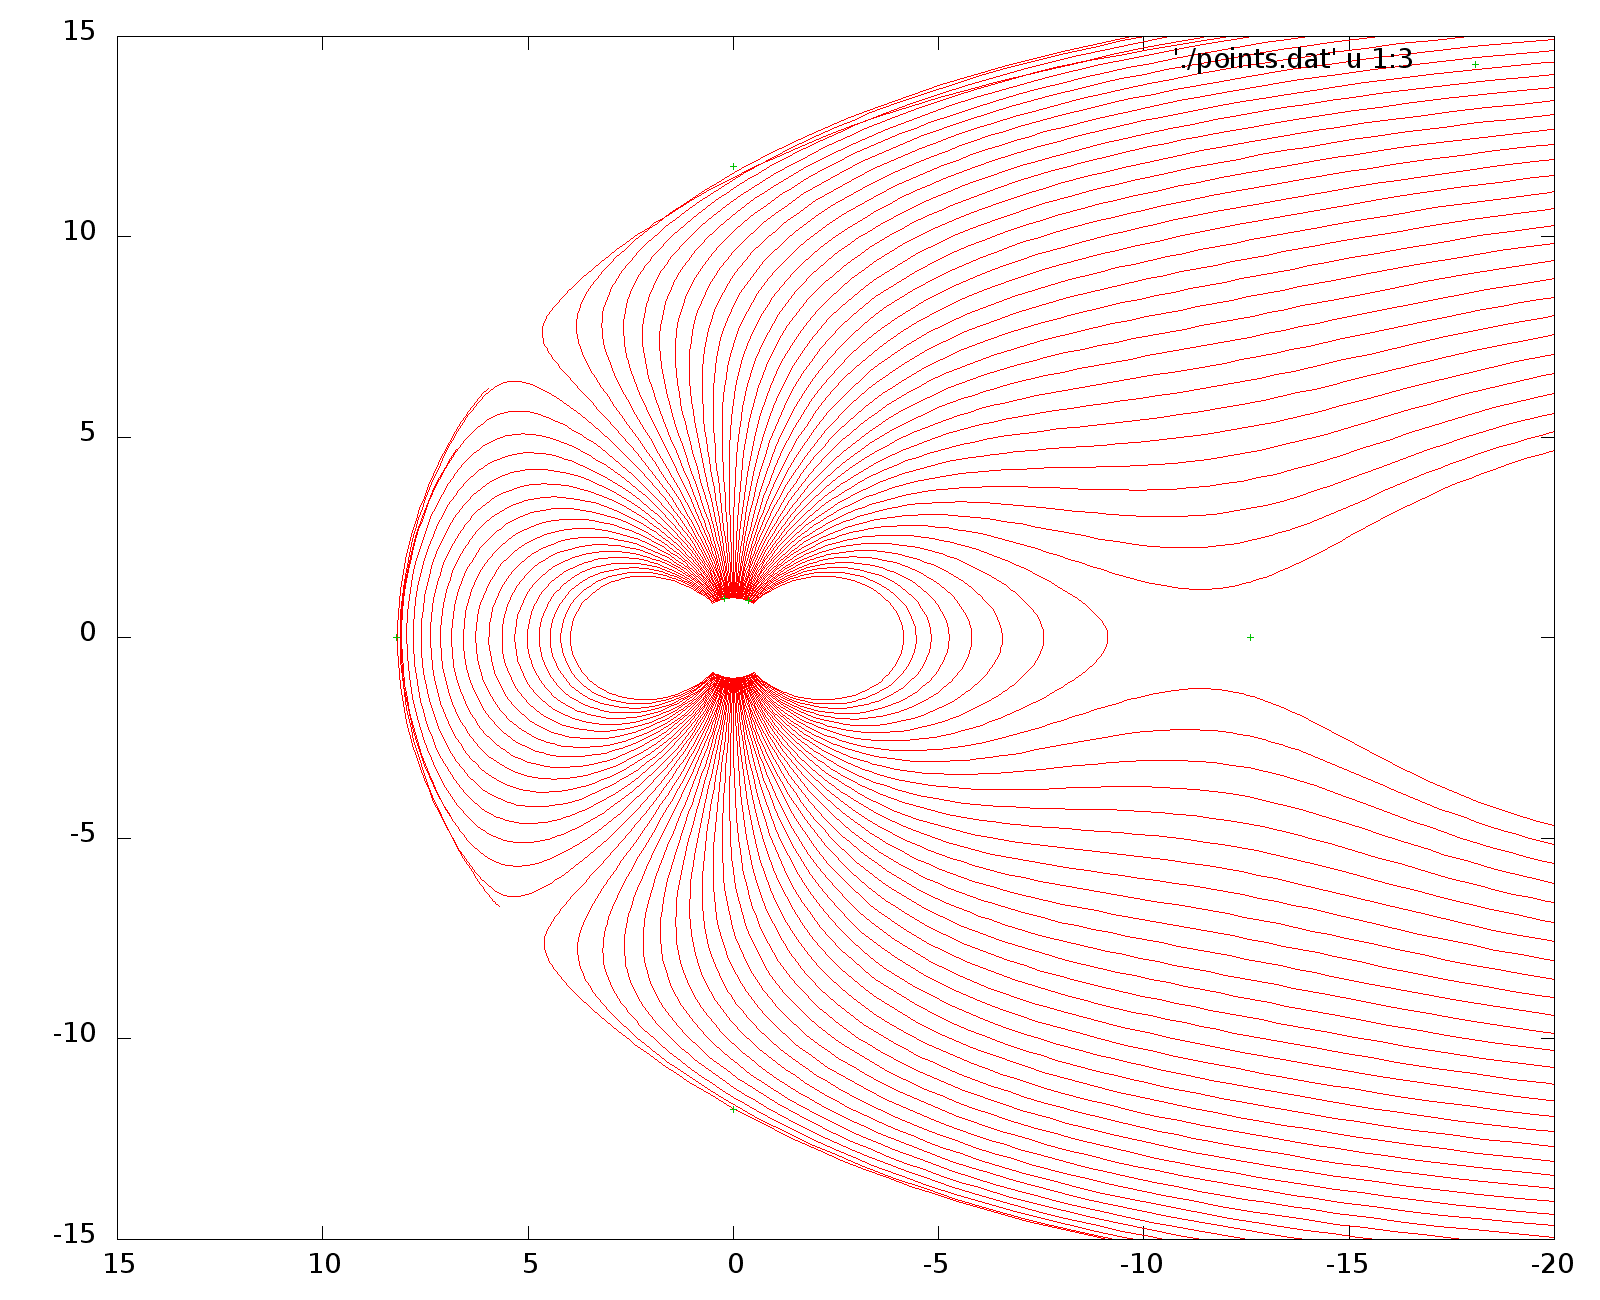
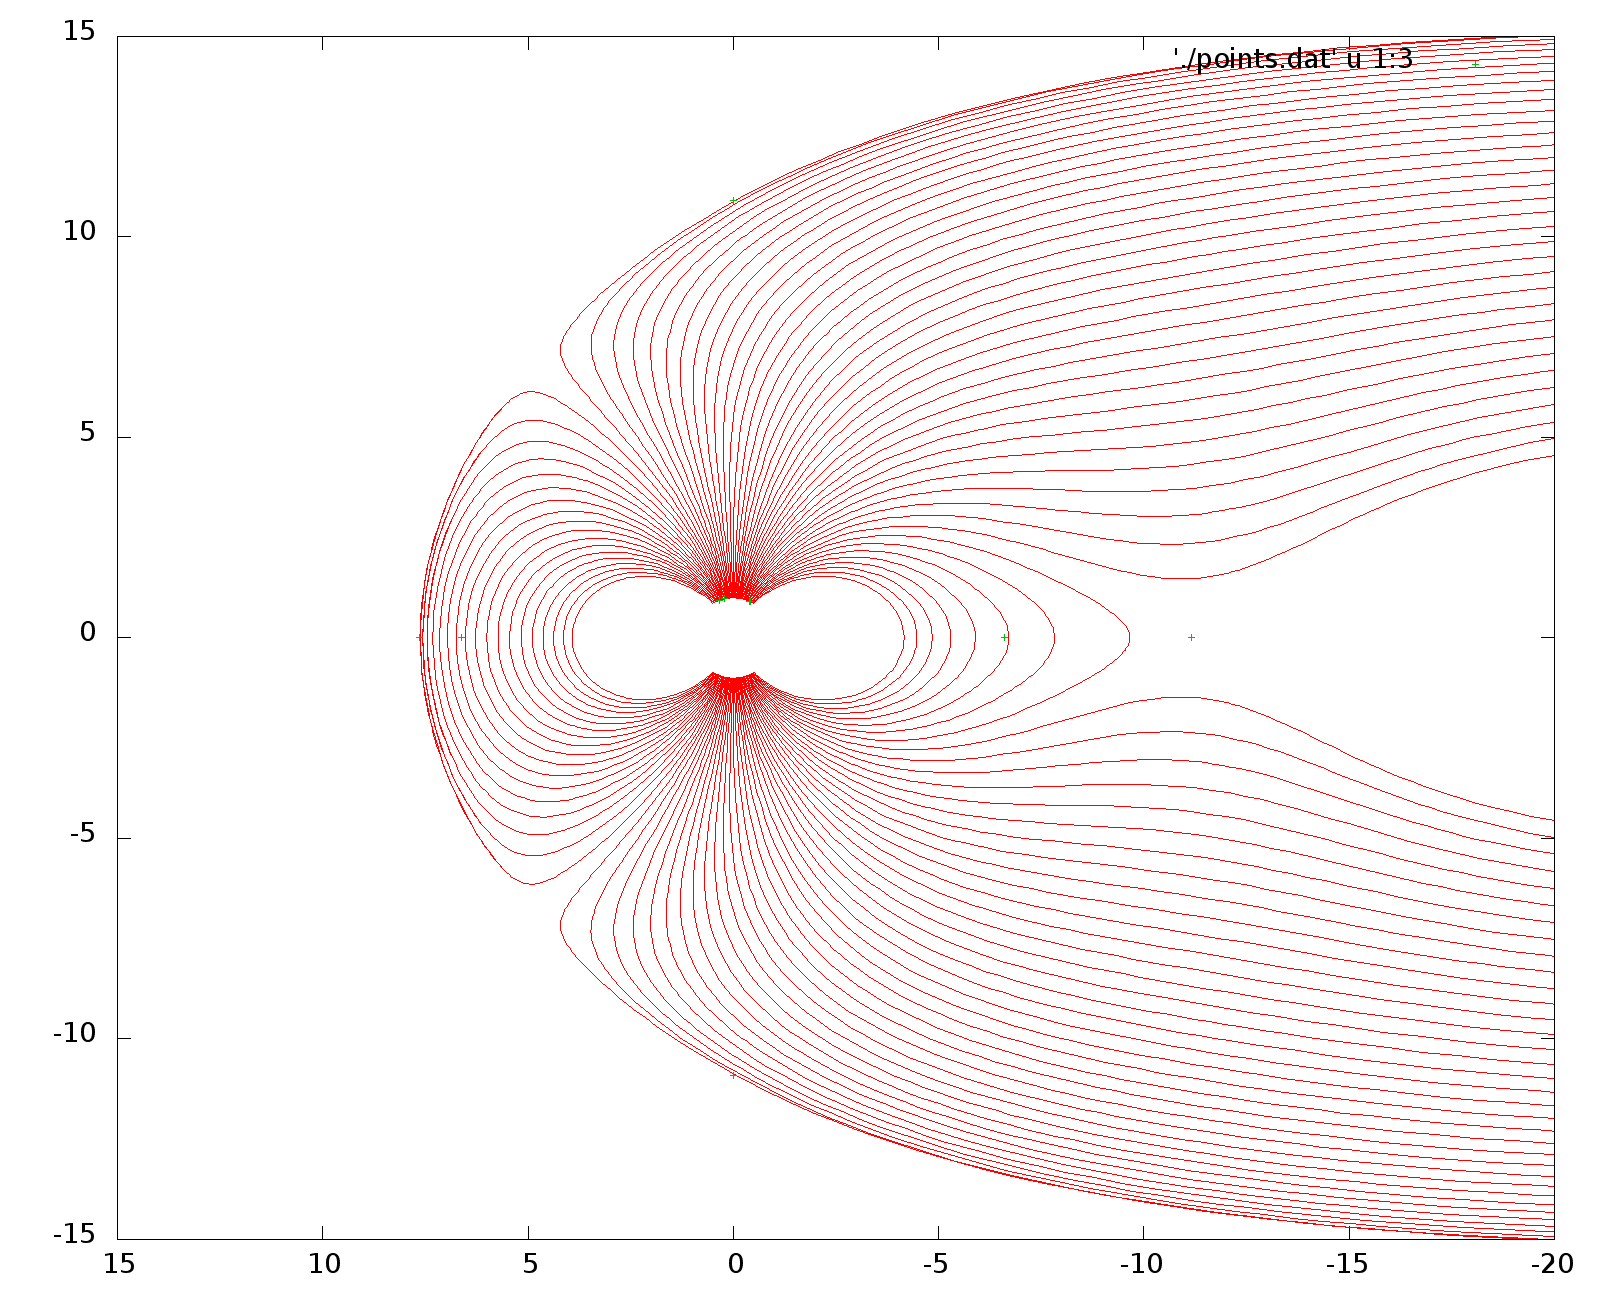
geostational orbit and average conditions at extreme

diff --git a/plot/runall.py b/plot/runall.py
@@ -18,18 +18,18 @@ files = ["pdyn_low",
 for i in files:
 	print "hello data_"+i+".dat"
 	data = np.genfromtxt("../find_extreme/data_"+i+".dat")
-	pdyn	= data[1,2]
-	speed	= data[1,3]
-	den	= data[1,4]
-	bzgsm	= data[1,5]
-	bygsm	= data[1,6]
-	symh	= data[1,7]
-	w1	= data[1,8]
-	w2	= data[1,9]
-	w3	= data[1,10]
-	w4	= data[1,11]
-	w5	= data[1,12]
-	w6	= data[1,13]
+	pdyn	= np.average(data[:,2])
+	speed	= np.average(data[:,3])
+	den	= np.average(data[:,4])
+	bzgsm	= np.average(data[:,5])
+	bygsm	= np.average(data[:,6])
+	symh	= np.average(data[:,7])
+	w1	= np.average(data[:,8])
+	w2	= np.average(data[:,9])
+	w3	= np.average(data[:,10])
+	w4	= np.average(data[:,11])
+	w5	= np.average(data[:,12])
+	w6	= np.average(data[:,13])
 	print pdyn, symh, bygsm, bzgsm, w1, w2, w3, w4, w5, w6
 	file = open("inputfile.dat", "w")
 	file.write("%f %f %f %f %f %f %f %f %f %f\n" % (pdyn, symh, bygsm, bzgsm, w1, w2, w3, w4, w5, w6))
@@ -38,7 +38,7 @@ for i in files:
 	subprocess.check_call(command)
 	command = ('make', 'show')
 	subprocess.check_call(command)
-	command = ('cp', 'lines.png', i+"/")
+	command = ('cp', 'lines.png', 'inputfile.dat', 'points.dat', i+"/")
 	subprocess.check_call(command)
 	command = ('taadaa')
 	subprocess.check_call(command)
